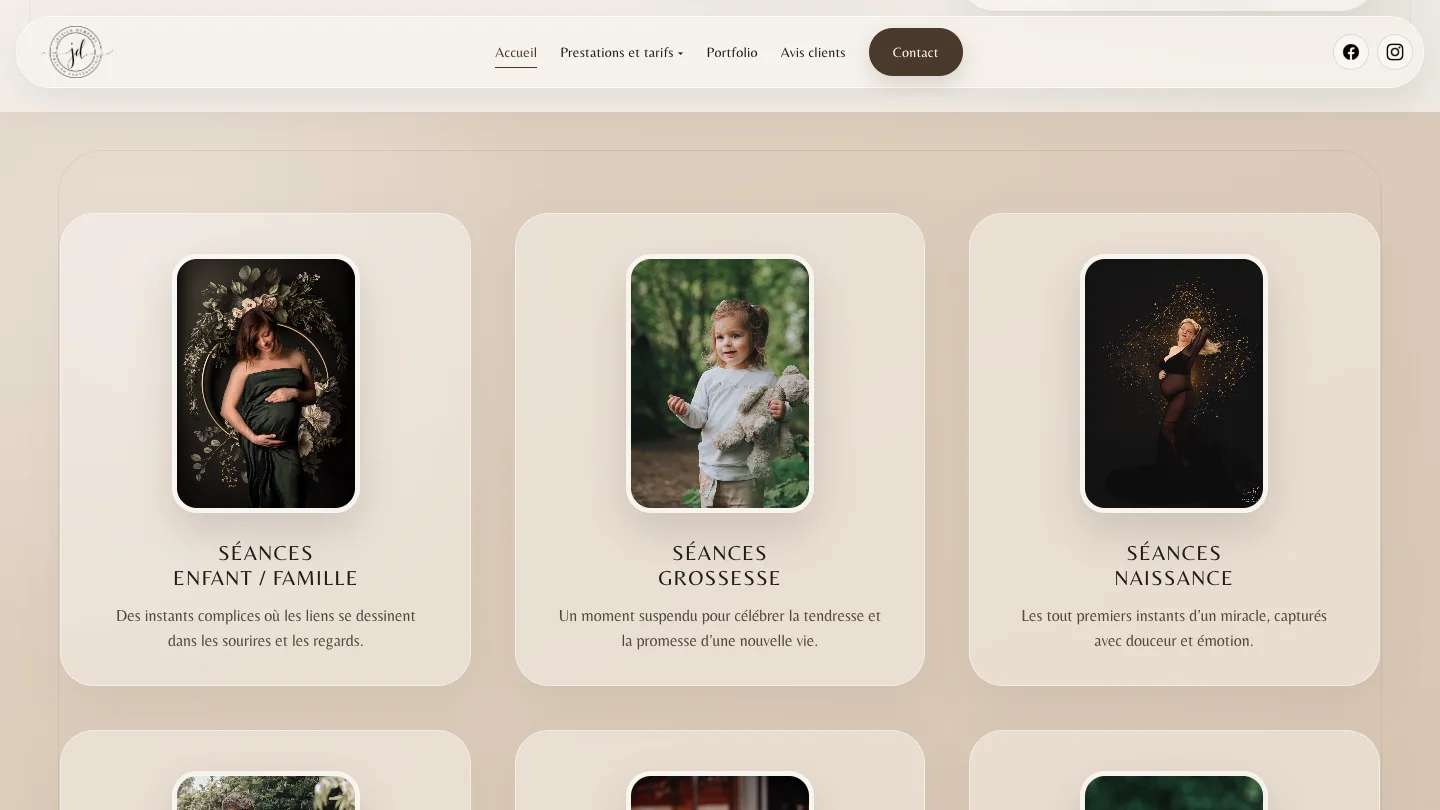
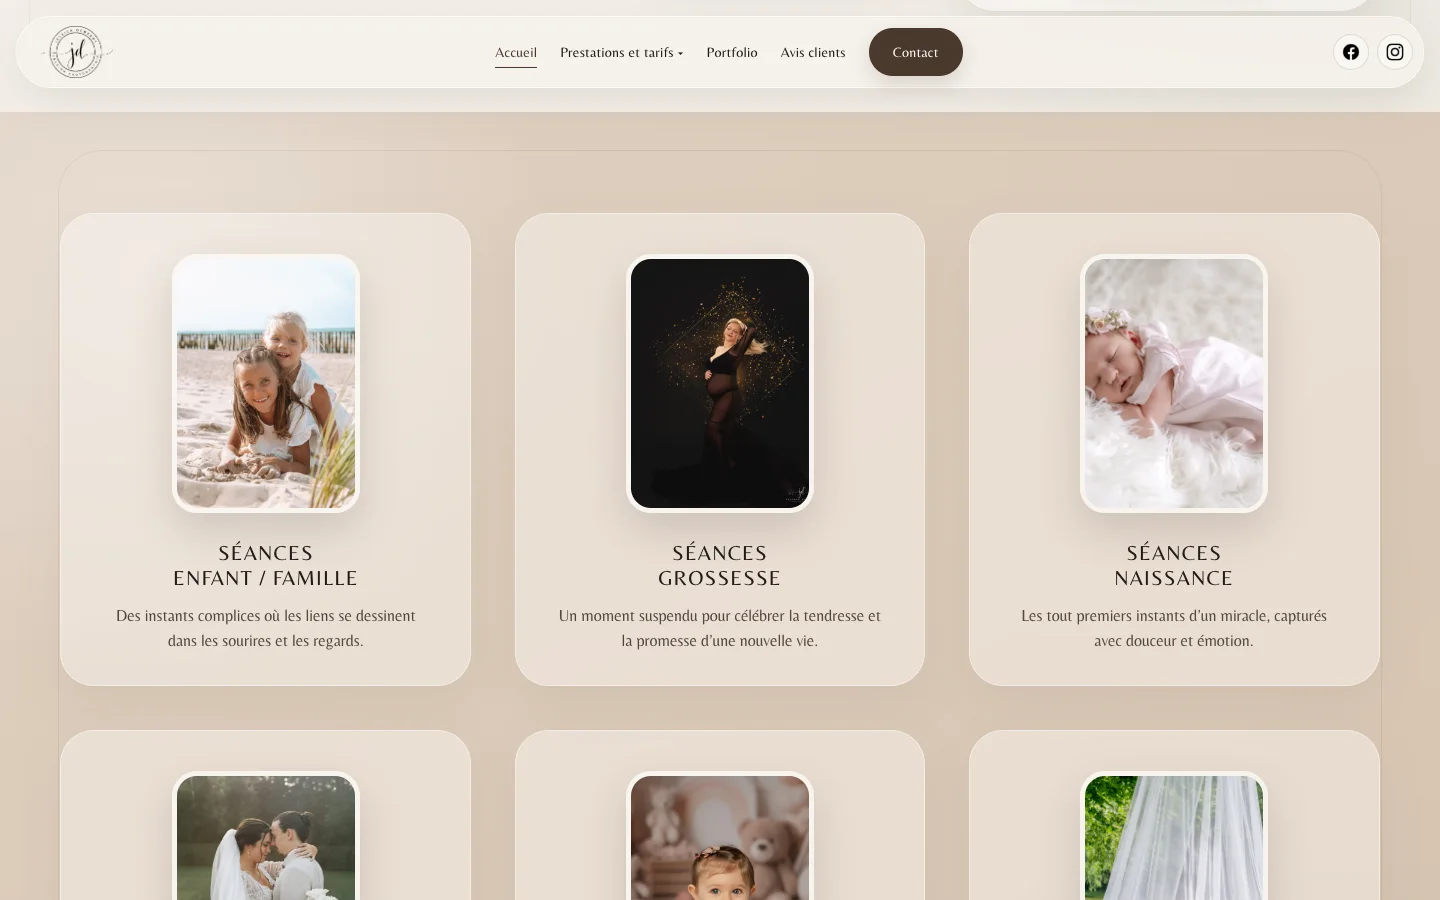
Renforce la présentation et la galerie de Jessica Dew

diff --git a/script.js b/script.js
@@ -390,59 +390,77 @@ document.addEventListener("DOMContentLoaded", () => {
             year: "2025 - 2026",
             dateLabel: "Création",
             created: "Août 2026",
-            role: "Direction artistique & développement full-stack",
+            role: "Conception, développement & exploitation",
             status: "Préproduction",
             accent: "#43dfff",
             logo: "./images/projects/jessica-dew/logo.png",
             logoAlt: "Monogramme Jessica Dew",
             logoMark: "JD",
             description:
-                "Création complète du site de Jessica Dewerdt, photographe dans l'Audomarois. L'objectif était de traduire son univers doux et éditorial dans une expérience claire, immersive et rassurante, sans laisser les informations pratiques prendre le dessus sur les images.\n\nLe site construit un véritable parcours client : une hero expressive, six univers de séances, des pages détaillées avec tarifs, un portfolio, des avis, des cartes cadeaux, des offres temporaires et des appels à l'action cohérents jusqu'à la prise de contact.\n\nLe formulaire est intégré à une application Symfony et ne se limite pas à un simple envoi d'e-mail. Il préremplit le type de séance selon le parcours, valide les données côté navigateur et serveur, bloque les soumissions automatisées avec un challenge signé et un honeypot, limite les abus et évite les doublons grâce à une clé d'idempotence. Les demandes sont ensuite transmises par Brevo avec une adresse d'envoi authentifiée et l'adresse du visiteur en réponse directe.\n\nL'ensemble a été conçu pour rester fluide et lisible du mobile au grand écran, avec une navigation accessible, des carrousels contrôlables, une prise en charge de la réduction des animations et des tests dédiés aux parcours critiques.",
-            summary: "Un site photographique complet qui transforme un univers visuel en parcours de découverte et de prise de contact.",
-            impact: "Six prestations, portfolio éditorial, contenus commerciaux et formulaire Symfony sécurisé relié à la messagerie cliente.",
-            techs: ["Symfony 7.4", "PHP 8.2", "Twig", "JavaScript", "HTML", "CSS", "Brevo SMTP", "PHPUnit"],
+                "J'ai pris en charge la création complète du site de Jessica Dewerdt, photographe dans l'Audomarois, depuis la définition du parcours jusqu'à son exploitation technique. L'objectif était de traduire son univers doux et éditorial dans une expérience claire, immersive et rassurante, sans laisser les informations pratiques prendre le dessus sur les images.\n\nJ'ai construit un véritable parcours client : une hero expressive, six univers de séances, des pages détaillées avec tarifs, un portfolio, des avis, des cartes cadeaux, des offres temporaires et des appels à l'action cohérents jusqu'à la prise de contact.\n\nLe formulaire repose sur une application Symfony et ne se limite pas à un simple envoi d'e-mail. Il préremplit le type de séance, valide les données côté navigateur et serveur, bloque les soumissions automatisées avec un challenge signé et un honeypot, limite les abus et évite les doublons. Les demandes sont ensuite transmises par Brevo avec une identité d'envoi authentifiée et l'adresse du visiteur configurée en réponse directe.\n\nJe pilote également toute la chaîne d'exploitation : configuration OVHcloud et PHP, isolation de la racine web, HTTPS et DNS, secrets d'environnement, authentification SMTP, construction des releases, recette avant bascule, surveillance des erreurs, purge des journaux et procédure de retour arrière. Les corrections, contenus et évolutions restent ainsi sous mon contrôle, de la configuration initiale à la maintenance après mise en ligne.",
+            summary: "Site photographique conçu, déployé et maintenu de bout en bout, du parcours client à l'infrastructure de production.",
+            impact: "Six prestations, portfolio éditorial, formulaire sécurisé et exploitation OVHcloud entièrement pilotée.",
+            techs: ["Symfony 7.4", "PHP 8.4", "JavaScript", "HTML / CSS", "Brevo SMTP", "OVHcloud", "Apache", "DNS / TLS", "PHPUnit"],
             cover: "./images/projects/jessica-dew/cover.webp",
             coverLabel: "Création éditoriale & parcours client",
-            galleryLayout: "case-study",
+            galleryLayout: "editorial",
+            galleryTitle: "Une expérience pensée comme un magazine photographique",
+            gallerySummary: "Les écrans alternent respiration, séries d'images et contenus utiles pour guider le regard sans uniformiser le parcours.",
             images: [
                 {
+                    src: "./images/projects/jessica-dew/gallery/identite-carrousel.webp",
+                    alt: "Présentation de Jessica Dew et carrousel photographique sur la page d'accueil",
+                    caption: "Identité personnelle, récit de marque et carrousel réunis dans une composition éditoriale",
+                    label: "01 / Identité",
+                    orientation: "landscape"
+                },
+                {
+                    src: "./images/projects/jessica-dew/gallery/portfolio-photographique.webp",
+                    alt: "Portfolio photographique actualisé du site Jessica Dew",
+                    caption: "Galerie vivante, rail photographique et sélection éditoriale des séries",
+                    label: "02 / Portfolio",
+                    orientation: "landscape"
+                },
+                {
+                    src: "./images/projects/jessica-dew/gallery/mobile-home.webp",
+                    alt: "Hero du site Jessica Dew affichée sur mobile",
+                    caption: "Une direction artistique conservée sur mobile, sans sacrifier la lisibilité ni les actions",
+                    label: "03 / Mobile",
+                    orientation: "portrait"
+                },
+                {
                     src: "./images/projects/jessica-dew/gallery/catalogue-prestations.webp",
-                    alt: "Catalogue des prestations photographiques du site Jessica Dew",
-                    caption: "Six univers de séances structurés pour guider chaque besoin",
-                    group: "Découvrir l'univers",
+                    alt: "Catalogue actualisé des prestations photographiques du site Jessica Dew",
+                    caption: "Six univers de séances immédiatement identifiables grâce aux nouvelles séries",
+                    label: "04 / Prestations",
                     orientation: "landscape"
                 },
                 {
-                    src: "./images/projects/jessica-dew/gallery/portfolio-editorial.webp",
-                    alt: "Portfolio éditorial du site Jessica Dew",
-                    caption: "Portfolio immersif mêlant sélection horizontale et composition éditoriale",
-                    group: "Découvrir l'univers",
-                    orientation: "landscape"
-                },
-                {
-                    src: "./images/projects/jessica-dew/gallery/seance-naissance.webp",
-                    alt: "Page consacrée aux séances naissance sur le site Jessica Dew",
-                    caption: "Page prestation avec récit, galerie contrôlable et accès aux tarifs",
-                    group: "Du contenu à la demande",
+                    src: "./images/projects/jessica-dew/gallery/reportage-mariage.webp",
+                    alt: "Page consacrée au reportage de mariage sur le site Jessica Dew",
+                    caption: "Chaque prestation associe récit, galerie contrôlable, tarifs et prise de contact",
+                    label: "05 / Parcours",
                     orientation: "landscape"
                 },
                 {
                     src: "./images/projects/jessica-dew/gallery/formulaire-contact.webp",
                     alt: "Formulaire de contact du site Jessica Dew",
-                    caption: "Formulaire contextuel, accessible et relié à une chaîne d'envoi sécurisée",
-                    group: "Du contenu à la demande",
+                    caption: "Le parcours se termine par un formulaire contextuel relié à une chaîne d'envoi sécurisée",
+                    label: "06 / Conversion",
                     orientation: "landscape"
                 }
             ],
             features: [
                 "Hero immersive, identité éditoriale sur mesure et navigation responsive commune à l'ensemble du site.",
                 "Six univers de séances avec contenus, galeries, tarifs et appels à l'action adaptés.",
-                "Portfolio, avis clients, cartes cadeaux et offres temporaires réunis dans un parcours cohérent.",
-                "Carrousels accessibles, navigation clavier, états de focus et réduction des animations prise en charge.",
+                "Portfolio, visionneuse, avis clients, cartes cadeaux et offres temporaires réunis dans un parcours cohérent.",
+                "Carrousels accessibles, navigation clavier, états de focus et réduction des animations pris en charge.",
                 "Formulaire prérempli selon la séance, validation client/serveur et conservation des saisies en cas d'erreur.",
                 "Protection par challenge signé, honeypot, limites de débit, contrôle d'origine et idempotence.",
                 "Envoi transactionnel via Brevo, sans base de données ni cookie pour traiter les demandes.",
-                "Tests PHPUnit des parcours critiques et préparation du déploiement sur l'hébergement de la cliente."
+                "Configuration complète d'OVHcloud : PHP 8.4, racine web public/, HTTPS, DNS, secrets, droits et caches.",
+                "Mise en production par release avec recette, surveillance, purge des journaux et retour arrière documenté.",
+                "Maintenance continue des contenus, des photographies, des dépendances, de la sécurité et du référencement."
             ],
             repoLink: null,
             liveLink: "https://jessicadewerdt.fr",
@@ -695,14 +713,14 @@ document.addEventListener("DOMContentLoaded", () => {
             summary: "Une interface réussie capte l'attention, rend l'offre compréhensible et accompagne naturellement jusqu'à la prise de contact.",
             need: "Présenter six univers photographiques sans perdre la douceur de la marque ni les informations attendues avant une réservation.",
             decision: "Associer une direction éditoriale centrée sur l'image à des pages structurées, des actions cohérentes et un formulaire contextuel.",
-            proof: "Hero immersive, prestations détaillées, portfolio, contenus commerciaux et chaîne de contact Symfony sécurisée.",
-            techs: ["UI/UX", "Symfony", "JavaScript", "Responsive"],
+            proof: "Hero immersive, prestations détaillées, portfolio, chaîne de contact sécurisée et exploitation OVHcloud.",
+            techs: ["UI/UX", "Symfony", "OVHcloud", "Responsive"],
             image: "./images/projects/jessica-dew/cover.webp",
             imageAlt: "Hero du site Jessica Dew Passion Photographie",
             imagePosition: "center",
             projectId: "1",
             action: "Examiner Jessica Dew",
-            role: "Direction artistique & développement",
+            role: "Conception, développement & exploitation",
             nodes: [
                 { label: "Attention", value: "Hero éditoriale", icon: "fas fa-eye" },
                 { label: "Parcours", value: "6 univers", icon: "fas fa-route" },
@@ -1815,7 +1833,45 @@ document.addEventListener("DOMContentLoaded", () => {
     const renderProjectModalMedia = (data) => {
         let imageMarkup = "";
 
-        if (data.galleryLayout === "case-study") {
+        if (data.galleryLayout === "editorial") {
+            const editorialImages = (data.images || []).map((image, index) => (
+                typeof image === "string"
+                    ? {
+                        src: image,
+                        alt: `Aperçu ${data.title}`,
+                        caption: "Capture du projet",
+                        label: `${String(index + 1).padStart(2, "0")} / Écran`,
+                        orientation: "landscape"
+                    }
+                    : image
+            ));
+
+            imageMarkup = `
+                <section class="pm-editorial-showcase">
+                    <div class="pm-editorial-heading">
+                        <span>PARCOURS VISUEL</span>
+                        <div>
+                            <h4>${data.galleryTitle || "Une expérience construite écran par écran"}</h4>
+                            <p>${data.gallerySummary || "Une sélection de vues représentatives du projet."}</p>
+                        </div>
+                    </div>
+                    <div class="pm-editorial-mosaic">
+                        ${editorialImages.map((image, index) => `
+                            <figure class="pm-editorial-frame pm-editorial-slot-${index + 1} is-${image.orientation || "landscape"}">
+                                <button class="pm-image-zoom js-image-zoom" type="button" data-src="${image.src}" data-alt="${image.alt || `Aperçu ${data.title}`}" data-caption="${image.caption || "Capture du projet"}" aria-label="Afficher cette capture en grand">
+                                    <img src="${image.src}" alt="${image.alt || `Aperçu ${data.title}`}" loading="lazy" decoding="async">
+                                    <span><i class="fas fa-up-right-and-down-left-from-center"></i> Agrandir</span>
+                                </button>
+                                <figcaption>
+                                    <span>${image.label || `${String(index + 1).padStart(2, "0")} / Écran`}</span>
+                                    <p>${image.caption || "Capture du projet"}</p>
+                                </figcaption>
+                            </figure>
+                        `).join("")}
+                    </div>
+                </section>
+            `;
+        } else if (data.galleryLayout === "case-study") {
             const imagesByGroup = (data.images || []).reduce((groups, image) => {
                 const item = typeof image === "string"
                     ? { src: image, alt: `Aperçu ${data.title}`, caption: "Capture du projet", group: "Captures", orientation: "landscape" }

diff --git a/style.css b/style.css
@@ -7807,3 +7807,153 @@ header {
         width: min(100%, 300px);
     }
 }
+
+/* Jessica Dew uses an editorial mosaic instead of the standard project grid. */
+.pm-editorial-showcase {
+    display: grid;
+    gap: clamp(20px, 3vw, 32px);
+    padding: clamp(8px, 1vw, 14px) 0 clamp(26px, 4vw, 42px);
+    border-top: 1px solid color-mix(in srgb, var(--project-accent, var(--cyan)) 32%, transparent);
+    border-bottom: 1px solid rgba(255, 255, 255, 0.1);
+}
+
+.pm-editorial-heading {
+    display: grid;
+    grid-template-columns: minmax(130px, 0.35fr) minmax(0, 1fr);
+    align-items: end;
+    gap: clamp(18px, 3vw, 36px);
+}
+
+.pm-editorial-heading > span {
+    color: var(--project-accent, var(--cyan));
+    font-family: var(--font-code);
+    font-size: 0.62rem;
+    letter-spacing: 0.08em;
+}
+
+.pm-editorial-heading h4 {
+    margin: 0 0 8px;
+    color: #fff;
+    font-family: var(--font-head);
+    font-size: clamp(1.55rem, 3vw, 2.8rem);
+    letter-spacing: 0;
+    line-height: 1;
+    text-transform: uppercase;
+}
+
+.pm-editorial-heading p {
+    max-width: 70ch;
+    margin: 0;
+    color: var(--modal-text-soft);
+    font-size: 0.78rem;
+    line-height: 1.65;
+}
+
+.pm-editorial-mosaic {
+    display: grid;
+    grid-template-columns: repeat(12, minmax(0, 1fr));
+    align-items: start;
+    gap: clamp(14px, 2vw, 22px);
+}
+
+.pm-editorial-frame {
+    min-width: 0;
+    margin: 0;
+}
+
+.pm-editorial-frame .pm-image-zoom {
+    width: 100%;
+    border: 1px solid color-mix(in srgb, var(--project-accent, var(--cyan)) 38%, rgba(255, 255, 255, 0.12));
+    border-radius: 6px;
+    background: transparent;
+}
+
+.pm-editorial-frame .pm-image-zoom img {
+    display: block;
+    width: 100%;
+    height: auto;
+    aspect-ratio: auto;
+    border: 0;
+    border-radius: 5px;
+    background: transparent;
+    object-fit: contain;
+}
+
+.pm-editorial-frame figcaption {
+    display: grid;
+    grid-template-columns: auto minmax(0, 1fr);
+    align-items: start;
+    gap: 12px;
+    padding: 11px 2px 0;
+}
+
+.pm-editorial-frame figcaption > span {
+    color: var(--project-accent, var(--cyan));
+    font-family: var(--font-code);
+    font-size: 0.56rem;
+    letter-spacing: 0.06em;
+    white-space: nowrap;
+}
+
+.pm-editorial-frame figcaption p {
+    margin: 0;
+    color: var(--muted);
+    font-size: 0.68rem;
+    line-height: 1.45;
+}
+
+.pm-editorial-slot-1 {
+    grid-column: 1 / -1;
+}
+
+.pm-editorial-slot-2,
+.pm-editorial-slot-4 {
+    grid-column: 1 / 8;
+}
+
+.pm-editorial-slot-3 {
+    grid-column: 8 / -1;
+    grid-row: 2 / span 2;
+}
+
+.pm-editorial-slot-5 {
+    grid-column: 1 / 7;
+}
+
+.pm-editorial-slot-6 {
+    grid-column: 7 / -1;
+}
+
+@media (max-width: 760px) {
+    .pm-editorial-heading {
+        grid-template-columns: 1fr;
+        align-items: start;
+        gap: 10px;
+    }
+
+    .pm-editorial-mosaic {
+        grid-template-columns: minmax(0, 1fr);
+        gap: 24px;
+    }
+
+    .pm-editorial-slot-1,
+    .pm-editorial-slot-2,
+    .pm-editorial-slot-3,
+    .pm-editorial-slot-4,
+    .pm-editorial-slot-5,
+    .pm-editorial-slot-6 {
+        width: 100%;
+        grid-column: 1;
+        grid-row: auto;
+    }
+
+    .pm-editorial-slot-3 {
+        width: min(100%, 300px);
+        justify-self: center;
+    }
+
+    .pm-editorial-frame figcaption {
+        grid-template-columns: 1fr;
+        gap: 5px;
+    }
+}

diff --git a/index.html b/index.html
@@ -14,7 +14,7 @@
     <link href="https://fonts.googleapis.com/css2?family=Fira+Code:wght@300;400;500;600&amp;family=Oswald:wght@400;500;600;700&amp;family=Space+Grotesk:wght@400;500;600;700&amp;display=swap" rel="stylesheet">
 
     <link rel="stylesheet" href="https://cdnjs.cloudflare.com/ajax/libs/font-awesome/6.6.0/css/all.min.css">
-    <link rel="stylesheet" href="style.css?v=section-titles-20260726">
+    <link rel="stylesheet" href="style.css?v=jessica-editorial-20260727">
 </head>
 <body>
     <div class="preloader" id="preloader" aria-hidden="true">
@@ -887,6 +887,6 @@
         </div>
     </div>
 
-    <script src="script.js?v=jessica-live-20260727"></script>
+    <script src="script.js?v=jessica-editorial-20260727"></script>
 </body>
 </html>
